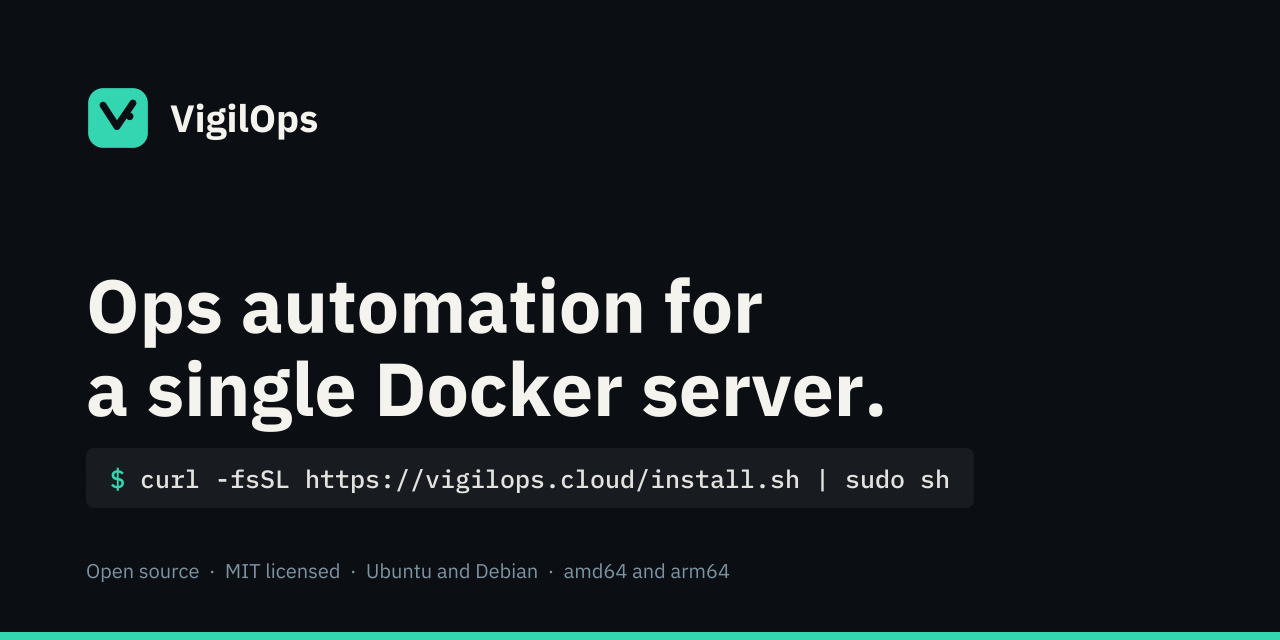
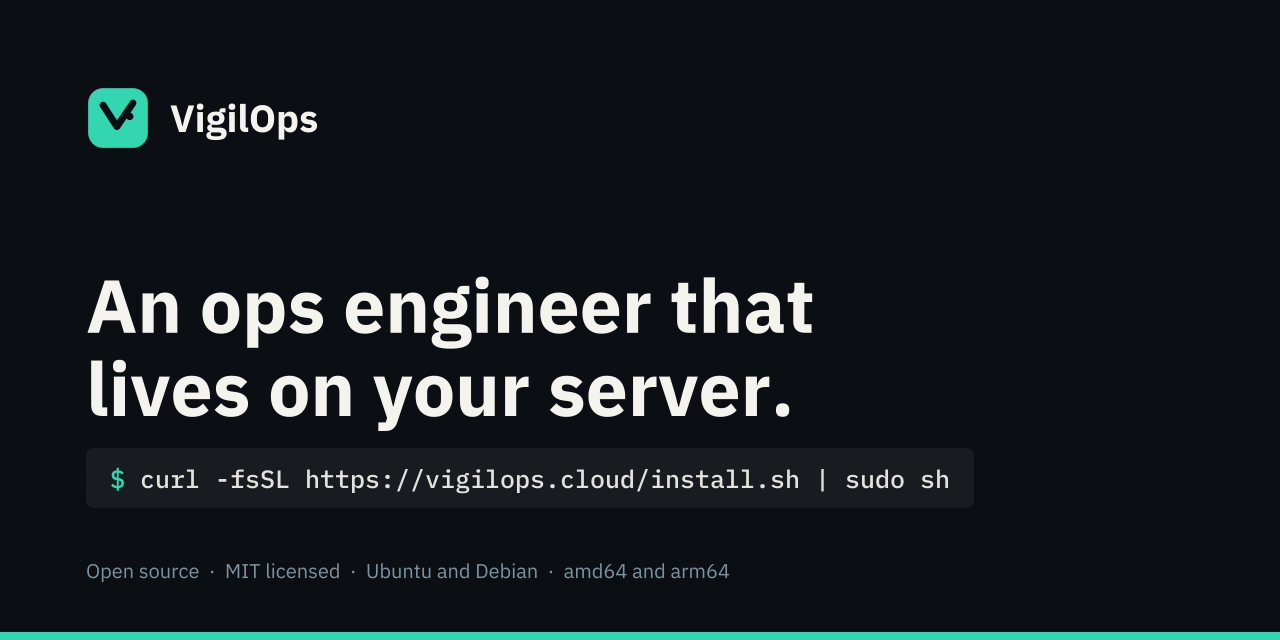
design: say what VigilOps is
The page had drifted to whichever feature was newest: "ops automation
for a single Docker server", then "give your AI a safe key". Neither
said what the thing is.

It is an ops engineer for one server that you can safely give root to.
That one idea explains the allowlist, the approvals, the audit log, the
safety backup before every restore, the restore test and undo — they are
not six features, they are one answer to "why would I let software have
root on my box".

Hero says that. A new section names the three jobs underneath it: keeps
it running, keeps it recoverable, keeps you in charge. The backups
section leads with the restore test and shows this project's own
verified restore — 131 tables, 193.8 MB, 137 seconds — rather than a
made-up backups table. The editor integration gets its own section
instead of carrying the headline, since it is how people arrive, not
what they stay for.

README, docs intro and the social cards follow the same line.

Changed region(s): [[0.0625, 0.4375, 0.6875, 0.6875]]

diff --git a/README.md b/README.md
@@ -2,7 +2,9 @@
 
 **The ops engineer that lives on your server.**
 
-VigilOps is a self-hosted ops agent for Docker servers. It watches your containers, fixes common failures, backs up your databases, and checks with you on Telegram before doing anything risky.
+VigilOps watches your containers, fixes what it safely can, and keeps database backups it has actually restored — on the one Docker server you already have. It runs a short allowlist on its own, asks before anything risky, and can undo what it did. Reach it from Telegram, or from Cursor and Claude Code.
+
+Three jobs, one container: **keep it running**, **keep it recoverable**, **keep you in charge**.
 
 [![VigilOps demo](https://img.youtube.com/vi/tz9k2Cawn-0/maxresdefault.jpg)](https://youtu.be/tz9k2Cawn-0)
 
